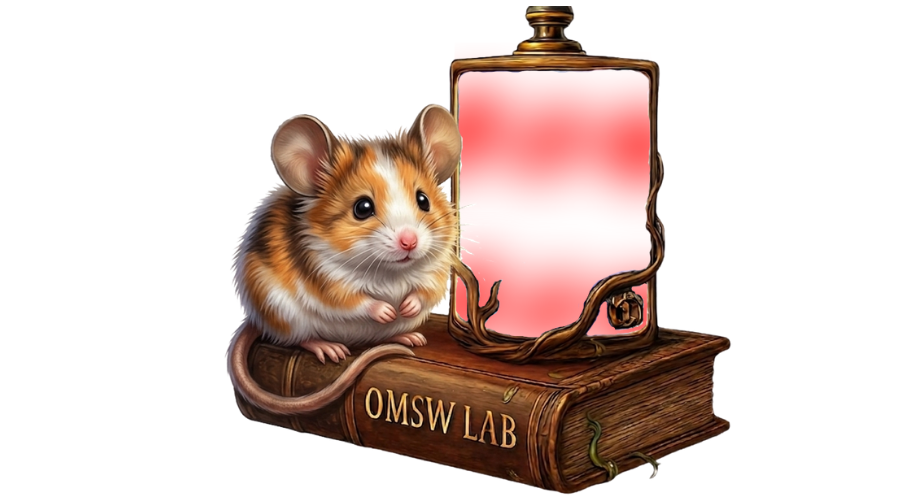
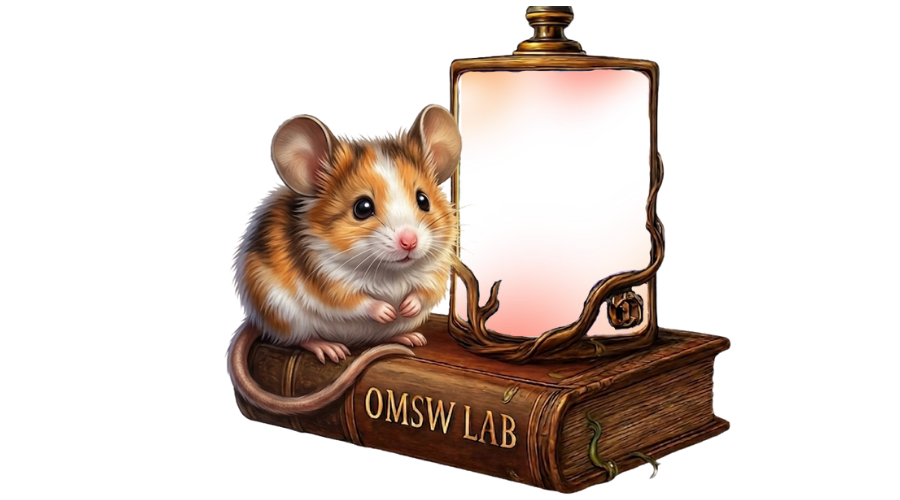
edit code

Changed region(s): [[0.4978, 0.12, 0.7467, 0.42], [0.4978, 0.48, 0.7156, 0.69], [0.6844, 0.57, 0.7467, 0.63]]

diff --git a/apps/web/app/widget/magic-lantern/[id]/page.tsx b/apps/web/app/widget/magic-lantern/[id]/page.tsx
@@ -27,14 +27,14 @@ type FloatingGift = {
   duration: number;
 };
 
-type Dust = {
-  id: number;
-  x: number;
-  y: number;
-  size: number;
-  delay: number;
-  duration: number;
-};
+// type Dust = {
+//   id: number;
+//   x: number;
+//   y: number;
+//   size: number;
+//   delay: number;
+//   duration: number;
+// };
 
 const JAR = {
   left: 450,
@@ -56,7 +56,9 @@ export default function MagicLanternWidget() {
   phoenix:
    "radial-gradient(circle at 50% 58%, rgba(147,51,234,0.42) 0%, rgba(168,85,247,0.26) 45%, rgba(216,180,254,0.16) 72%, transparent 100%)",
   rat:
-    "radial-gradient(circle at 50% 58%, rgba(251,146,60,0.42) 0%, rgba(245,158,11,0.26) 45%, rgba(120,53,15,0.16) 72%, transparent 100%)",
+    "radial-gradient(circle at 50% 58%, rgba(147,51,234,0.42) 0%, rgba(168,85,247,0.26) 45%, rgba(216,180,254,0.16) 72%, transparent 100%)",
+
+    // "radial-gradient(circle at 50% 58%, rgba(251,146,60,0.42) 0%, rgba(245,158,11,0.26) 45%, rgba(120,53,15,0.16) 72%, transparent 100%)",
 
   cat:
     "radial-gradient(circle at 50% 58%, rgba(236,72,153,0.42) 0%, rgba(244,114,182,0.26) 45%, rgba(168,85,247,0.16) 72%, transparent 100%)",
@@ -90,7 +92,7 @@ const dustColor = DUST_COLOR[lantern] || DUST_COLOR.phoenix;
   const [message, setMessage] = useState("");
   const [showMessage, setShowMessage] = useState(false);
   const [gifts, setGifts] = useState<FloatingGift[]>([]);
-  const [dusts, setDusts] = useState<Dust[]>([]);
+  // const [dusts, setDusts] = useState<Dust[]>([]);
 
   const playEffect = (gift: GiftPayload) => {
     setMessage(`ขอบคุณ ${gift.user} ส่ง ${gift.giftName} x${gift.amount}`);
@@ -120,17 +122,17 @@ const dustColor = DUST_COLOR[lantern] || DUST_COLOR.phoenix;
     ); 
     
 
-    const newDusts: Dust[] = Array.from({ length: 90 }).map((_, index) => ({
-      id: Date.now() + 5000 + index,
-      x: 20 + Math.random() * 170,
-      y: 55 + Math.random() * 65,
-      size: 1.3 + Math.random() * 2.4,
-      delay: Math.random() * 1.8,
-      duration: 2 + Math.random() * 2.5,
-    }));
+    // const newDusts: Dust[] = Array.from({ length: 90 }).map((_, index) => ({
+    //   id: Date.now() + 5000 + index,
+    //   x: 20 + Math.random() * 170,
+    //   y: 55 + Math.random() * 65,
+    //   size: 1.3 + Math.random() * 2.4,
+    //   delay: Math.random() * 1.8,
+    //   duration: 2 + Math.random() * 2.5,
+    // }));
 
     setGifts((prev) => [...prev, ...newGifts].slice(-160));
-    setDusts(newDusts);
+    // setDusts(newDusts);
 
     setTimeout(() => {
       setShowMessage(false);
@@ -151,8 +153,7 @@ const dustColor = DUST_COLOR[lantern] || DUST_COLOR.phoenix;
     socket.on("reset-gift", () => {
       setMessage("");
       setShowMessage(false);
-      setGifts([]);
-      setDusts([]);
+      setGifts([]);      
     });
 
     return () => {
@@ -219,7 +220,7 @@ const dustColor = DUST_COLOR[lantern] || DUST_COLOR.phoenix;
   }}
 />
 
-          {dusts.map((dust) => (
+          {/* {dusts.map((dust) => (
             <span
               key={dust.id}
               className="animate-magic-dust absolute rounded-full"              
@@ -234,7 +235,7 @@ const dustColor = DUST_COLOR[lantern] || DUST_COLOR.phoenix;
                   boxShadow: `0 0 10px ${dustColor}`,
               }}
             />
-          ))}
+          ))} */}
 
           {gifts.map((gift) => (
             <img
